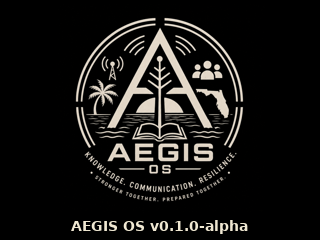
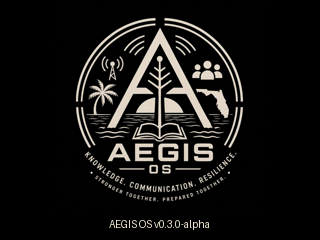
refactor: expand Field Terminal widget framework

Changed region(s): [[0.2188, 0.9042, 0.7812, 0.9917]]

diff --git a/aegis/screens/hardware.py b/aegis/screens/hardware.py
@@ -1,17 +1,19 @@
 from aegis.state import SystemState
 from aegis.widgets.frame import render_frame
+from aegis.widgets.table import render_table
 
 
 def render_hardware_screen(state: SystemState) -> str:
-    body = (
-        f"Host    {state.host}\n"
-        f"IP      {state.ip}\n"
-        f"CPU     {state.cpu}\n"
-        f"RAM     {state.memory}\n"
-        f"Disk    {state.disk}\n"
-        f"Temp    {state.temp}\n"
-        f"Power   {state.power}\n"
-        f"Uptime  {state.uptime}"
+    body = render_table(
+        [
+            ("Host", state.host),
+            ("IP", state.ip),
+            ("CPU", state.cpu),
+            ("RAM", state.memory),
+            ("Disk", state.disk),
+            ("Temp", state.temp),
+            ("Power", state.power),
+            ("Uptime", state.uptime),
+        ]
     )
     return render_frame("Hardware", "System Diagnostics", body)
-

diff --git a/aegis/widgets/listbox.py b/aegis/widgets/listbox.py
@@ -1,0 +1,19 @@
+from aegis.themes.field import FIELD_THEME, FieldTheme
+
+
+def render_listbox(
+    items: list[str],
+    selected: int,
+    limit: int = 8,
+    *,
+    theme: FieldTheme = FIELD_THEME,
+) -> str:
+    if not items:
+        return theme.empty_menu
+
+    lines = []
+    for index, item in enumerate(items[:limit]):
+        pointer = theme.selection(index == selected)
+        lines.append(f"{pointer} {item}")
+    return "\n".join(lines)
+

diff --git a/aegis/screens/inventory.py b/aegis/screens/inventory.py
@@ -3,23 +3,22 @@ from pathlib import Path
 from aegis.inventory import items as inventory_items
 from aegis.inventory import read_item, title_from_item
 from aegis.widgets.frame import render_frame
-from aegis.widgets.menu import render_menu
-from aegis.widgets.viewer import render_preview
+from aegis.widgets.listbox import render_listbox
+from aegis.widgets.markdown import render_markdown_preview
 
 
 def render_inventory_screen(categories: list[str], selected: int) -> str:
     items = [category.title() for category in categories]
-    return render_frame("Inventory", f"Categories: {len(items)}", render_menu(items, selected))
+    return render_frame("Inventory", f"Categories: {len(items)}", render_listbox(items, selected))
 
 
 def render_inventory_category_screen(category: str, selected: int) -> str:
     items = inventory_items(category)
     names = [title_from_item(item) for item in items]
-    return render_frame(category.title(), f"Items: {len(names)}", render_menu(names, selected))
+    return render_frame(category.title(), f"Items: {len(names)}", render_listbox(names, selected))
 
 
 def render_inventory_item_screen(item: Path) -> str:
     title = title_from_item(item)
-    preview = render_preview(read_item(item))
+    preview = render_markdown_preview(read_item(item))
     return render_frame(title, "Inventory", preview)
-

diff --git a/aegis/screens/journal.py b/aegis/screens/journal.py
@@ -3,23 +3,22 @@ from pathlib import Path
 from aegis.journal import entries as journal_entries
 from aegis.journal import read_entry, title_from_entry
 from aegis.widgets.frame import render_frame
-from aegis.widgets.menu import render_menu
-from aegis.widgets.viewer import render_preview
+from aegis.widgets.listbox import render_listbox
+from aegis.widgets.markdown import render_markdown_preview
 
 
 def render_journal_screen(categories: list[str], selected: int) -> str:
     items = [category.title() for category in categories]
-    return render_frame("Field Journal", f"Categories: {len(items)}", render_menu(items, selected))
+    return render_frame("Field Journal", f"Categories: {len(items)}", render_listbox(items, selected))
 
 
 def render_journal_category_screen(category: str, selected: int) -> str:
     entries = journal_entries(category)
     items = [title_from_entry(entry) for entry in entries]
-    return render_frame(category.title(), f"Entries: {len(items)}", render_menu(items, selected))
+    return render_frame(category.title(), f"Entries: {len(items)}", render_listbox(items, selected))
 
 
 def render_journal_entry_screen(entry: Path) -> str:
     title = title_from_entry(entry)
-    preview = render_preview(read_entry(entry))
+    preview = render_markdown_preview(read_entry(entry))
     return render_frame(title, "Field Journal", preview)
-

diff --git a/aegis/screens/knowledge.py b/aegis/screens/knowledge.py
@@ -3,8 +3,8 @@ from typing import Protocol
 
 from aegis.knowledge import KnowledgePack, read_document
 from aegis.widgets.frame import render_frame
-from aegis.widgets.menu import render_menu
-from aegis.widgets.viewer import render_preview
+from aegis.widgets.listbox import render_listbox
+from aegis.widgets.markdown import render_markdown_preview
 
 
 class DocumentLike(Protocol):
@@ -14,19 +14,18 @@ class DocumentLike(Protocol):
 
 def render_knowledge_screen(packs: list[KnowledgePack], selected: int) -> str:
     items = [f"{pack.icon} {pack.name}".strip() for pack in packs]
-    return render_frame("Knowledge", f"Packs: {len(items)}", render_menu(items, selected))
+    return render_frame("Knowledge", f"Packs: {len(items)}", render_listbox(items, selected))
 
 
 def render_pack_screen(pack: KnowledgePack | None, selected: int) -> str:
     docs = pack.documents if pack else []
     items = [doc.title for doc in docs]
     title = pack.name if pack else "Pack"
-    return render_frame(title, "Documents", render_menu(items, selected))
+    return render_frame(title, "Documents", render_listbox(items, selected))
 
 
 def render_document_screen(document: DocumentLike | None) -> str:
     title = document.title if document else "Document"
     text = read_document(document.path) if document else "No document selected"
-    preview = render_preview(text)
+    preview = render_markdown_preview(text)
     return render_frame(title, "Viewer", preview)
-

diff --git a/aegis/widgets/menu.py b/aegis/widgets/menu.py
@@ -1,4 +1,5 @@
 from aegis.themes.field import FIELD_THEME, FieldTheme
+from aegis.widgets.listbox import render_listbox
 
 
 def render_menu(
@@ -8,11 +9,4 @@ def render_menu(
     *,
     theme: FieldTheme = FIELD_THEME,
 ) -> str:
-    if not items:
-        return theme.empty_menu
-
-    lines = []
-    for index, item in enumerate(items[:limit]):
-        pointer = theme.selection(index == selected)
-        lines.append(f"{pointer} {item}")
-    return "\n".join(lines)
+    return render_listbox(items, selected, limit, theme=theme)

diff --git a/aegis/widgets/frame.py b/aegis/widgets/frame.py
@@ -1,4 +1,7 @@
 from aegis.themes.field import FIELD_THEME, FieldTheme
+from aegis.widgets.footer import render_footer
+from aegis.widgets.header import render_header
+from aegis.widgets.status import render_status
 
 
 DEFAULT_FOOTER = "↑↓ Select  Enter Open  Esc Back  Q Quit"
@@ -13,10 +16,10 @@ def render_frame(
     theme: FieldTheme = FIELD_THEME,
 ) -> str:
     return (
-        f"{theme.title(title)}\n"
-        f"{theme.status(status)}\n"
+        f"{render_header(title, theme=theme)}\n"
+        f"{render_status(status, theme=theme)}\n"
         f"{theme.divider}\n"
         f"{body}\n"
         f"{theme.divider}\n"
-        f"{theme.footer(footer)}"
+        f"{render_footer(footer, theme=theme)}"
     )

diff --git a/aegis/screens/search.py b/aegis/screens/search.py
@@ -1,14 +1,14 @@
 from aegis.search import SearchResult
 from aegis.widgets.frame import render_frame
-from aegis.widgets.menu import render_menu
+from aegis.widgets.listbox import render_listbox
+from aegis.widgets.searchbox import render_searchbox
 
 
 def render_search_input_screen(query: str) -> str:
-    body = f"/ {query}_"
+    body = render_searchbox(query)
     return render_frame("Search", "Universal Search", body, "Type query  Enter Search  Esc Cancel")
 
 
 def render_search_results_screen(results: list[SearchResult], selected: int) -> str:
     items = [f"{result.pack_name}: {result.document_title}" for result in results[:8]]
-    return render_frame("Search Results", f"Results: {len(results)}", render_menu(items, selected))
-
+    return render_frame("Search Results", f"Results: {len(results)}", render_listbox(items, selected))

diff --git a/aegis/widgets/footer.py b/aegis/widgets/footer.py
@@ -1,0 +1,6 @@
+from aegis.themes.field import FIELD_THEME, FieldTheme
+
+
+def render_footer(text: str, *, theme: FieldTheme = FIELD_THEME) -> str:
+    return theme.footer(text)
+

diff --git a/aegis/widgets/header.py b/aegis/widgets/header.py
@@ -1,0 +1,6 @@
+from aegis.themes.field import FIELD_THEME, FieldTheme
+
+
+def render_header(title: str, *, theme: FieldTheme = FIELD_THEME) -> str:
+    return theme.title(title)
+

diff --git a/aegis/widgets/status.py b/aegis/widgets/status.py
@@ -1,0 +1,6 @@
+from aegis.themes.field import FIELD_THEME, FieldTheme
+
+
+def render_status(text: str, *, theme: FieldTheme = FIELD_THEME) -> str:
+    return theme.status(text)
+

diff --git a/aegis/widgets/viewer.py b/aegis/widgets/viewer.py
@@ -1,3 +1,5 @@
-def render_preview(text: str, lines: int = 13) -> str:
-    return "\n".join(text.splitlines()[:lines])
+from aegis.widgets.markdown import render_markdown_preview
 
+
+def render_preview(text: str, lines: int = 13) -> str:
+    return render_markdown_preview(text, lines)